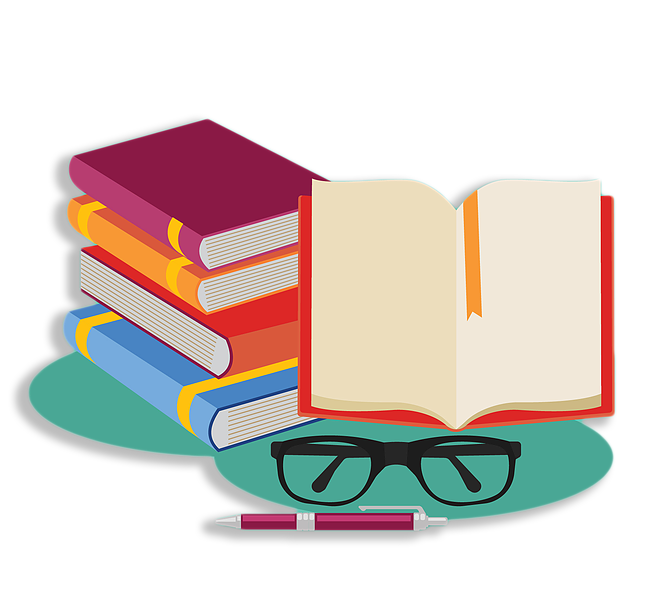
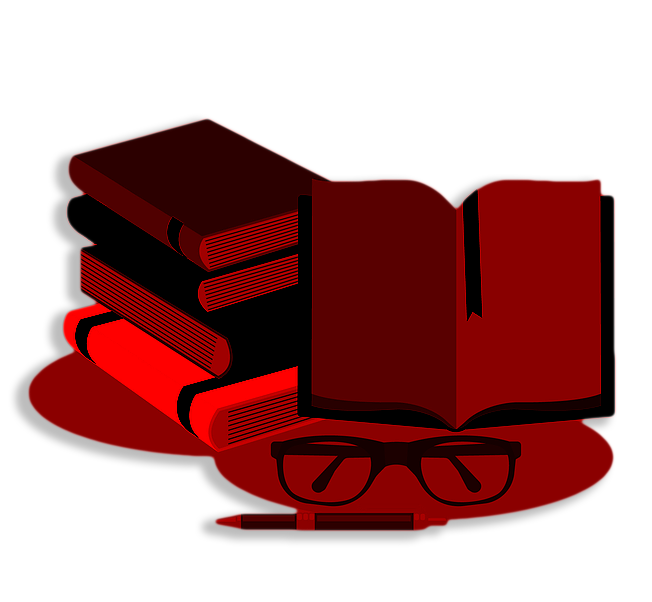
add filter to images

diff --git a/index.html b/index.html
@@ -4,7 +4,7 @@ path: "."
 ---
 
 <main class="main">
-    <section class="fragment fragment--about" id="o-nas">
+    <section class="fragment" id="o-nas">
         <div class="fragment__item">
             <div class="fragment__paragraph">
                 <h4 class="fragment__subtitle">O nas</h4>
